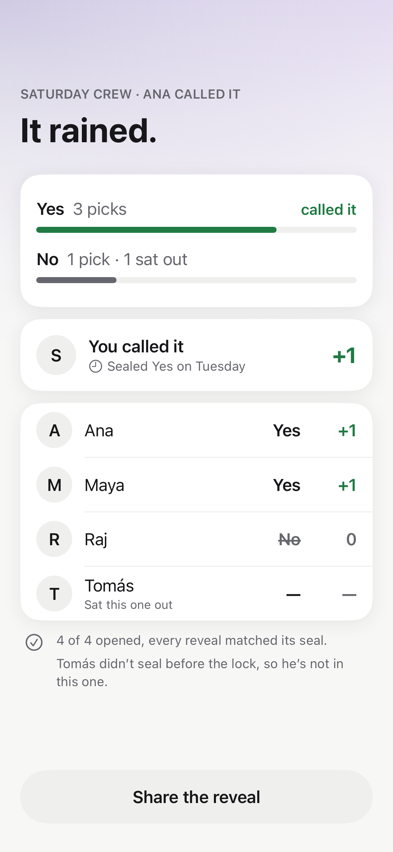
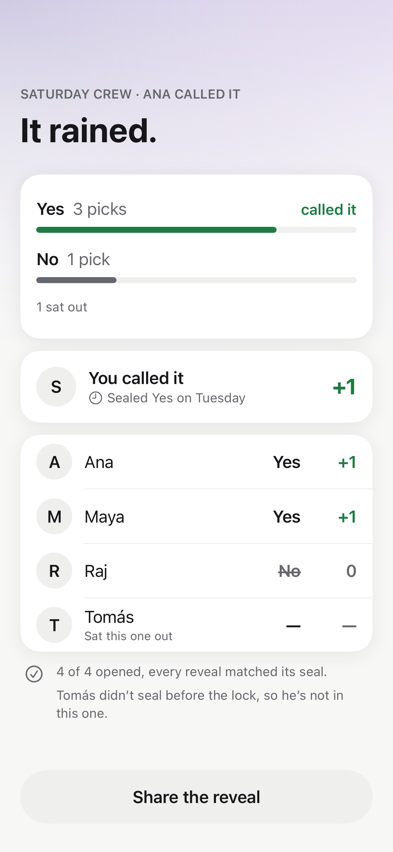
design(polish): separate sat-out count from verdict choices

diff --git a/Slip/Screens/ResultScreens.swift b/Slip/Screens/ResultScreens.swift
@@ -1681,12 +1681,19 @@ private struct VerdictBars: View {
                 .accessibilityLabel(ResultAccessibility.verdict(side: "Yes", picks: 3, calledIt: true))
 
                 VStack(spacing: SlipSpacing.small) {
-                    VerdictBarHeading(side: "No", detail: satOut ? "1 pick · 1 sat out" : "2 picks")
+                    VerdictBarHeading(side: "No", detail: satOut ? "1 pick" : "2 picks")
                     ResultBar(value: satOut ? ResultLayout.satOutNoShare : ResultLayout.normalNoShare, color: SlipColor.secondary)
                         .accessibilityHidden(true)
                 }
                 .accessibilityElement(children: .combine)
-                .accessibilityLabel(ResultAccessibility.verdict(side: "No", picks: satOut ? 1 : 2, satOut: satOut ? 1 : 0))
+                .accessibilityLabel(ResultAccessibility.verdict(side: "No", picks: satOut ? 1 : 2))
+
+                if satOut {
+                    Text("1 sat out")
+                        .font(SlipFont.footnote)
+                        .foregroundStyle(SlipColor.secondary)
+                        .frame(maxWidth: .infinity, alignment: .leading)
+                }
             }
             .padding(.vertical, SlipSpacing.small)
             .foregroundStyle(SlipColor.ink)

diff --git a/SlipTests/ResultAccessibilityTests.swift b/SlipTests/ResultAccessibilityTests.swift
@@ -15,11 +15,11 @@ struct ResultAccessibilityTests {
                 == "Tomás. Sat this one out. No opened pick. No score")
     }
 
-    @Test("Each verdict side has one complete spoken summary, including sat-out counts")
+    @Test("Each verdict side summarizes only actual picks")
     func verdictLabels() {
         #expect(ResultAccessibility.verdict(side: "Yes", picks: 3, calledIt: true) == "Yes. 3 picks. called it")
         #expect(ResultAccessibility.verdict(side: "No", picks: 2) == "No. 2 picks")
-        #expect(ResultAccessibility.verdict(side: "No", picks: 1, satOut: 1) == "No. 1 pick. 1 sat out")
+        #expect(ResultAccessibility.verdict(side: "No", picks: 1) == "No. 1 pick")
     }
 
     @Test("Accessible preview actions name and navigate to the existing context-menu destinations")

diff --git a/Slip/DesignSystem/ResultAccessibility.swift b/Slip/DesignSystem/ResultAccessibility.swift
@@ -25,10 +25,9 @@ enum ResultAccessibility {
         return parts.joined(separator: ". ")
     }
 
-    static func verdict(side: String, picks: Int, calledIt: Bool = false, satOut: Int = 0) -> String {
+    static func verdict(side: String, picks: Int, calledIt: Bool = false) -> String {
         var parts = [side, "\(picks) \(picks == 1 ? "pick" : "picks")"]
         if calledIt { parts.append("called it") }
-        if satOut > 0 { parts.append("\(satOut) sat out") }
         return parts.joined(separator: ". ")
     }
 }

diff --git a/README.md b/README.md
@@ -116,7 +116,7 @@ substitute for an authenticated physical-device run.
 
 ## Design and documentation
 
-The [30 canonical v6 boards](docs/design/v6/) are losslessly compacted copies of the reviewed app snapshots, produced on 2026-09-05 after the Luma pass. They cover 24 routes plus three dark and three AX1 boards; v5 Paper boards are historical. Snapshot tests use serialized key-window rendering, 1× standard-range PNGs, light/dark, XL, AX1 and AX5. The 120 references total **11,123,615 bytes** after pixel-identical lossless compression; the comparison threshold remains **0.012**. Re-recording is explicit; see [testing](.claude/docs/testing.md).
+The [30 canonical v6 boards](docs/design/v6/) are losslessly compacted copies of the reviewed app snapshots, produced on 2026-09-05 after the Luma pass. They cover 24 routes plus three dark and three AX1 boards; v5 Paper boards are historical. Snapshot tests use serialized key-window rendering, 1× standard-range PNGs, light/dark, XL, AX1 and AX5. The 120 references total **11,119,989 bytes** after pixel-identical lossless compression; the comparison threshold remains **0.012**. Re-recording is explicit; see [testing](.claude/docs/testing.md).
 
 The [interactive explainer](docs/how-slip-works.html) distinguishes the current local build from the planned connected flow. It is an illustration, not a transaction receipt.
 
